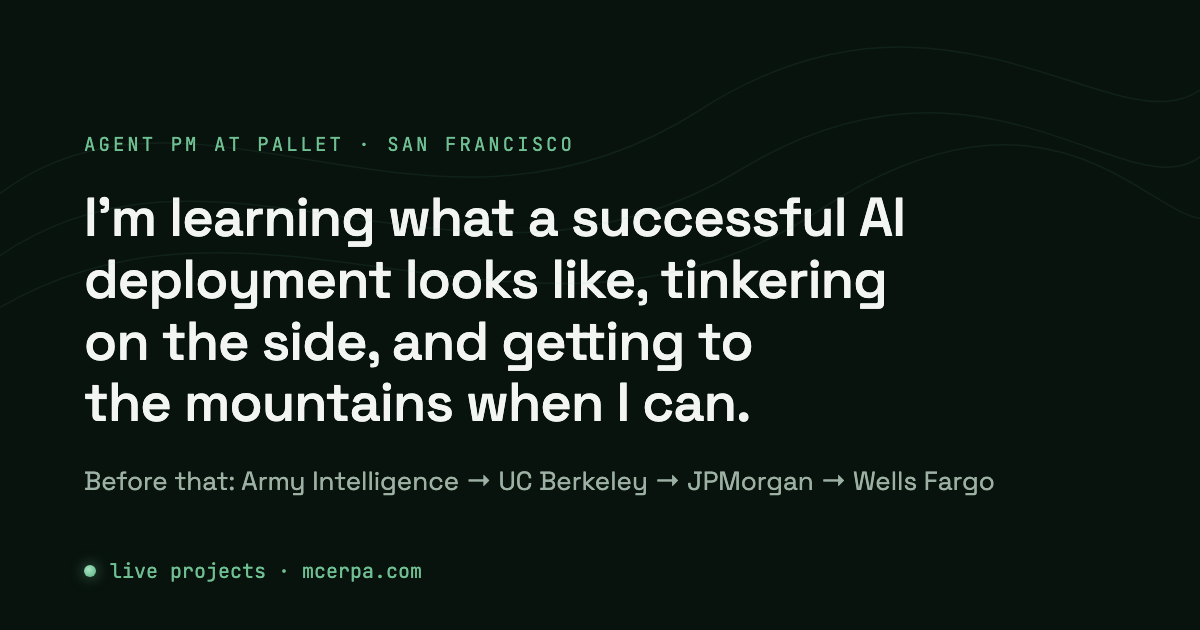
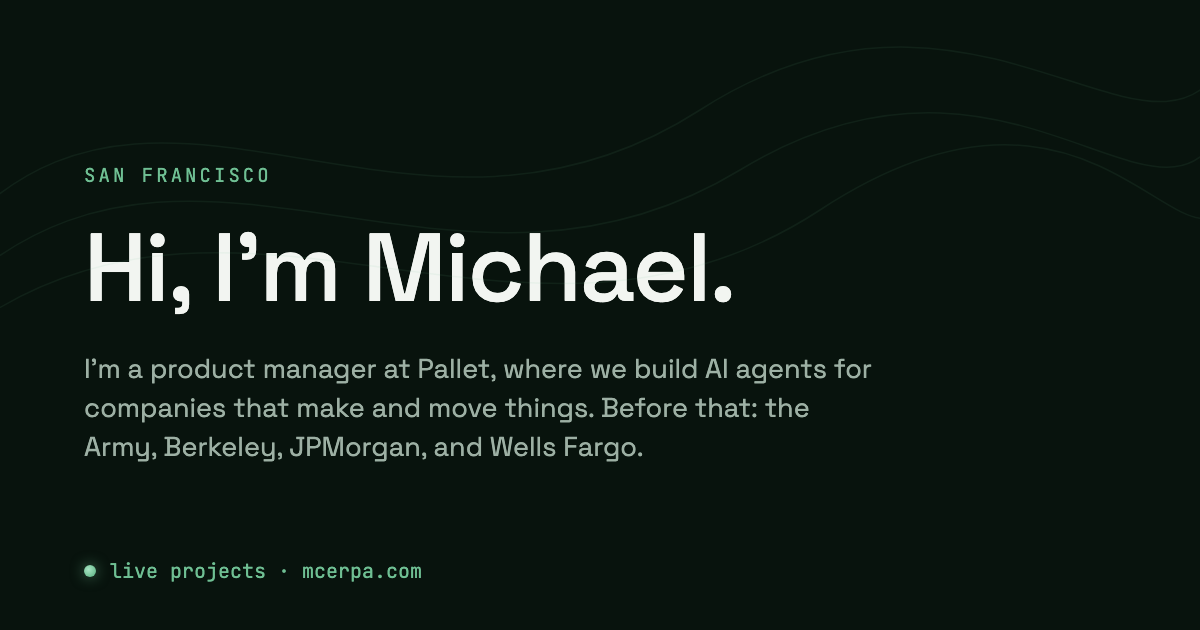
Hero: "Hi, I'm Michael."
A plain hello instead of a pitch: the headline introduces me, and one sentence
says what I do now (product manager at Pallet, AI agents for companies that make
and move things) and where I came from. Back to full-size type for a short
headline. og.png and link-preview text match.

Changed region(s): [[0.0617, 0.2714, 0.8325, 0.7841], [0.0617, 0.2111, 0.2775, 0.2413], [0.3083, 0.2111, 0.4933, 0.2413]]

diff --git a/index.html b/index.html
@@ -4,7 +4,7 @@
   <meta charset="UTF-8">
   <meta name="viewport" content="width=device-width, initial-scale=1.0">
   <title>Michael Cerpa — Agent PM</title>
-  <meta name="description" content="Michael Cerpa, agent PM at Pallet. Before that: Army Intelligence, UC Berkeley, JPMorgan, Wells Fargo. Live projects you can open and use.">
+  <meta name="description" content="Michael Cerpa is a product manager at Pallet, where he builds AI agents for companies that make and move things. Before that: the Army, Berkeley, JPMorgan, and Wells Fargo. Live projects you can open and use.">
   <meta name="theme-color" content="#08130D">
 
   <link rel="icon" type="image/png" sizes="48x48" href="favicon.png">
@@ -13,14 +13,14 @@
   <meta property="og:type" content="website">
   <meta property="og:site_name" content="Michael Cerpa">
   <meta property="og:title" content="Michael Cerpa — Agent PM at Pallet">
-  <meta property="og:description" content="I'm learning what a successful AI deployment looks like, tinkering on the side, and getting to the mountains when I can.">
+  <meta property="og:description" content="Hi, I'm Michael. I'm a product manager at Pallet, where we build AI agents for companies that make and move things.">
   <meta property="og:url" content="https://mcerpa.com/">
   <meta property="og:image" content="https://mcerpa.com/og.png">
   <meta property="og:image:width" content="1200">
   <meta property="og:image:height" content="630">
   <meta name="twitter:card" content="summary_large_image">
   <meta name="twitter:title" content="Michael Cerpa — Agent PM at Pallet">
-  <meta name="twitter:description" content="I'm learning what a successful AI deployment looks like, tinkering on the side, and getting to the mountains when I can.">
+  <meta name="twitter:description" content="Hi, I'm Michael. I'm a product manager at Pallet, where we build AI agents for companies that make and move things.">
   <meta name="twitter:image" content="https://mcerpa.com/og.png">
 
   <link rel="preload" href="fonts/SpaceGrotesk-var.woff2" as="font" type="font/woff2" crossorigin>
@@ -49,9 +49,9 @@
     <path d="M-20,185 C260,-30 560,280 910,75 S1420,185 1490,10" fill="none" stroke="#6FBF93" stroke-width="1"/>
   </svg>
 
-  <div class="eyebrow up d1">Agent PM at Pallet · San Francisco</div>
-  <h1 class="up d2">I'm learning what a successful AI deployment looks like, tinkering on the side, and getting to the mountains when I can.</h1>
-  <p class="sub up d3">Before that: Army&nbsp;Intelligence → UC&nbsp;Berkeley → JPMorgan → Wells&nbsp;Fargo</p>
+  <div class="eyebrow up d1">San Francisco</div>
+  <h1 class="up d2">Hi, I'm Michael.</h1>
+  <p class="sub up d3">I'm a product manager at Pallet, where we build AI agents for companies that make and move things. Before that: the Army, Berkeley, JPMorgan, and Wells&nbsp;Fargo.</p>
 
   <p class="tick up d3" id="tick" hidden>
     <span class="beacon" aria-hidden="true"></span>

diff --git a/styles.css b/styles.css
@@ -62,8 +62,8 @@ body{background:var(--bg);color:var(--ink);font-family:var(--sans);font-weight:4
 .hero>*{position:relative}
 .eyebrow{font-family:var(--mono);font-size:12px;letter-spacing:.16em;text-transform:uppercase;
          color:var(--accent);margin-bottom:24px}
-.hero h1{font-size:clamp(28px,3.6vw,48px);line-height:1.15;font-weight:500;
-         letter-spacing:-.015em;max-width:26ch;color:var(--ink);text-wrap:balance}
+.hero h1{font-size:clamp(44px,7vw,88px);line-height:1.05;font-weight:500;
+         letter-spacing:-.018em;max-width:16ch;color:var(--ink);text-wrap:balance}
 .hero .sub{margin-top:22px;font-size:17px;color:var(--ink-soft);max-width:56ch}
 
 /* live tick — the one living element; hidden unless the data is real */
